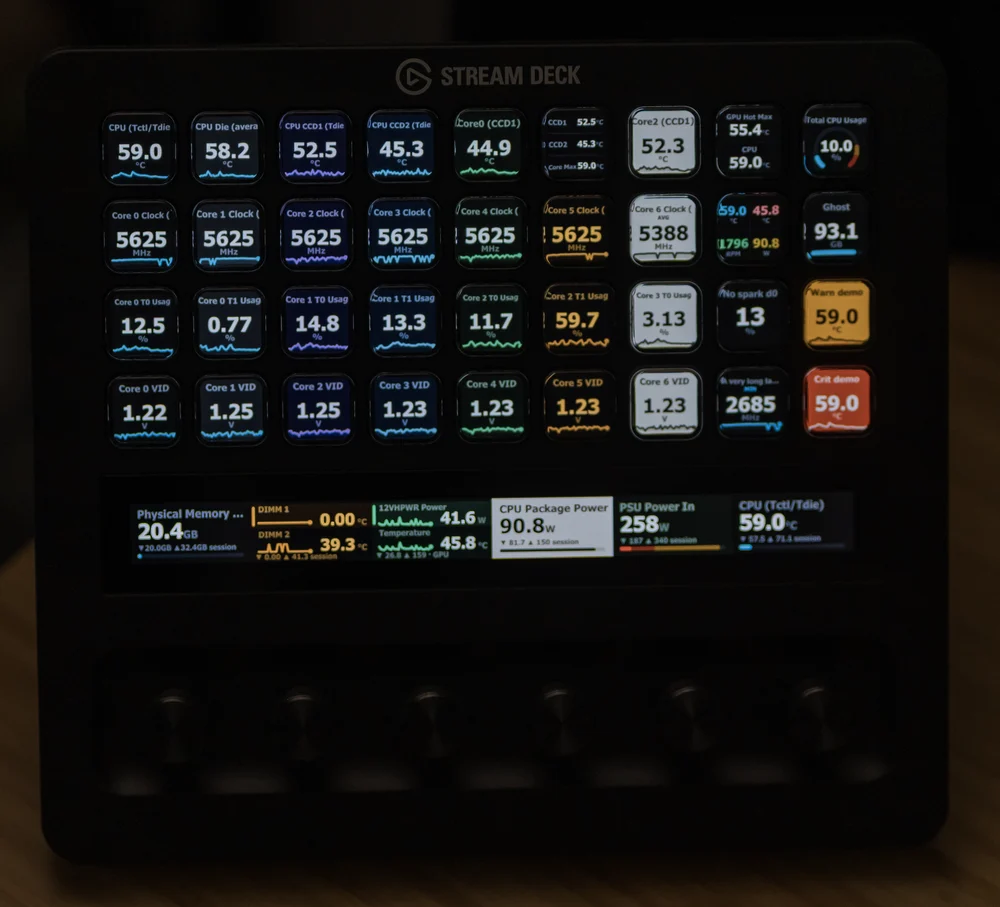
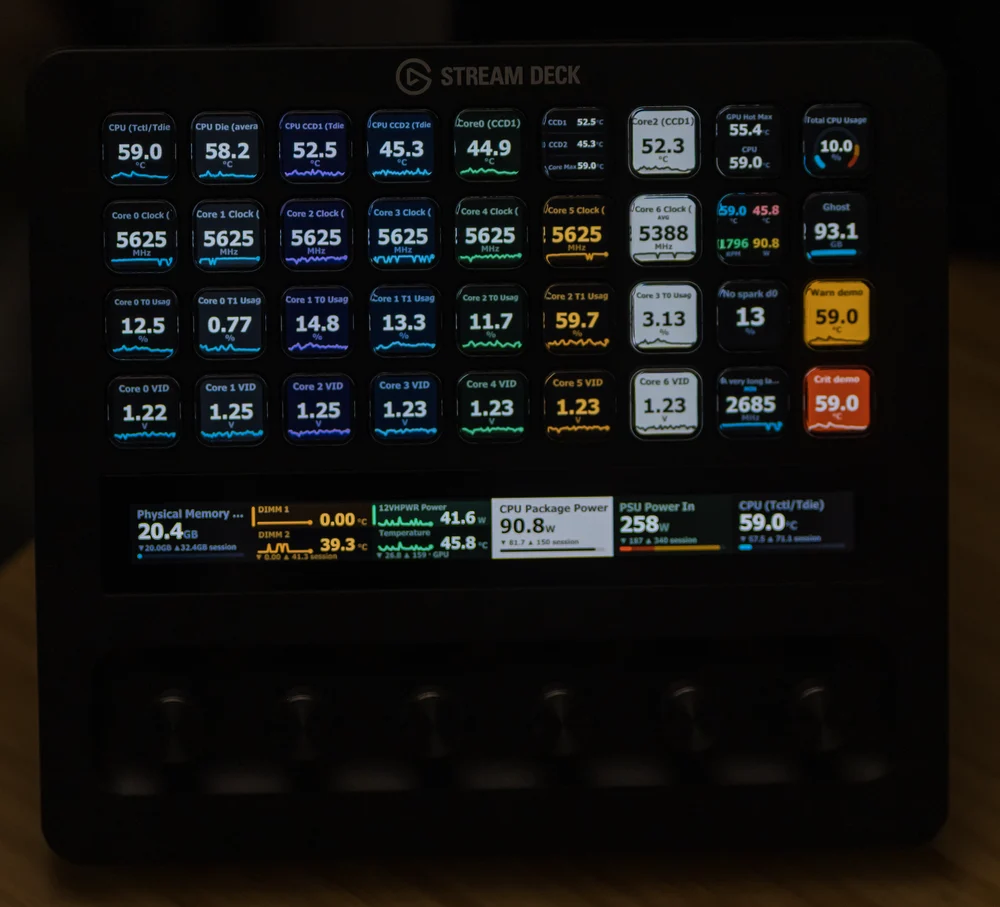
Drop every em dash, and the regraded hardware photo
The footer credit line, the privacy row, the setup step and the 404 copy all
carried em dashes, plus the page titles and the CSS and header comments: 21
across the served files. Replaced by meaning rather than a blind swap, so
prose takes a colon and the titles take a middle dot.

Photo rebuilt from the regraded master. The camera had recorded about 80% of
the saturation the plugin's renderer actually draws, measured against the
warn and crit key colours, which are fixed values in themes.json. It now
matches within a percent.

diff --git a/public/index.html b/public/index.html
@@ -3,13 +3,13 @@
 <head>
 <meta charset="utf-8">
 <meta name="viewport" content="width=device-width, initial-scale=1">
-<title>HWiNFO Sensors for Stream Deck — slawrensen</title>
+<title>HWiNFO Sensors for Stream Deck · slawrensen</title>
 <meta name="description" content="HWiNFO Sensors for Stream Deck: live CPU and GPU temperatures, clocks, fan RPM, usage and power on your Elgato keys and dials. Free, open source, no telemetry.">
 <meta name="theme-color" content="#08090b">
 <meta name="color-scheme" content="dark">
 <link rel="icon" href="favicon.svg" type="image/svg+xml">
 <link rel="canonical" href="https://slawrensen.com/">
-<meta property="og:title" content="HWiNFO Sensors for Stream Deck — slawrensen">
+<meta property="og:title" content="HWiNFO Sensors for Stream Deck · slawrensen">
 <meta property="og:description" content="HWiNFO Sensors for Stream Deck: live CPU and GPU temperatures, clocks, fan RPM, usage and power on your Elgato keys and dials. Free, open source, no telemetry.">
 <meta property="og:type" content="website">
 <meta property="og:url" content="https://slawrensen.com/">
@@ -60,7 +60,7 @@
     -webkit-mask-image:linear-gradient(#000, #000 38%, transparent 88%);
             mask-image:linear-gradient(#000, #000 38%, transparent 88%);
   }
-  /* content-column rails — an instrument bezel on wide screens */
+  /* content-column rails: an instrument bezel on wide screens */
   .rails{position:fixed; inset:0; z-index:-1; pointer-events:none; display:none}
   @media(min-width:1240px){
     .rails{display:block}
@@ -163,7 +163,7 @@
     animation:drift 20s ease-in-out infinite;
   }
   @keyframes drift{0%,100%{transform:translate3d(0,0,0)} 50%{transform:translate3d(2.2%,-1.6%,0)}}
-  /* hero trace field — decorative oscilloscope behind the headline */
+  /* hero trace field: decorative oscilloscope behind the headline */
   .trace{
     position:absolute; inset:0; z-index:-1; width:100%; height:100%; pointer-events:none;
     -webkit-mask-image:linear-gradient(180deg, transparent, #000 24%, #000 78%, transparent);
@@ -171,7 +171,7 @@
     opacity:.75;
   }
   .hero .wrap{position:relative}
-  /* decorative sensor keys in the hero corner — wide screens only */
+  /* decorative sensor keys in the hero corner: wide screens only */
   .hud{position:absolute; top:2px; right:var(--gutter); width:158px; display:none; flex-direction:column; gap:10px; pointer-events:none}
   @media(min-width:820px){ .hud{display:flex} }
   .skey{
@@ -235,7 +235,7 @@
   .phead{max-width:66ch}
   .phead h3{font-size:var(--fs-h3); letter-spacing:-.015em; font-weight:600; margin-top:.5em}
   .phead p{color:var(--muted); font-size:1rem; margin-top:.7em}
-  /* spec readout rows — the feature set as instrument labels, not a paragraph */
+  /* spec readout rows: the feature set as instrument labels, not a paragraph */
   .pspec{list-style:none; padding:0; margin-top:clamp(20px,2.6vw,28px)}
   .pspec li{
     display:grid; grid-template-columns:92px 1fr; gap:14px; align-items:baseline;
@@ -270,7 +270,7 @@
   .pphoto{margin-top:clamp(26px,3.5vw,36px)}
   .pphoto img{width:100%; border:1px solid var(--line-2); border-radius:var(--radius-sm); box-shadow:0 24px 60px -34px rgba(0,0,0,.95)}
 
-  /* setup — the three steps that actually get it running */
+  /* setup: the three steps that actually get it running */
   .psetup{
     list-style:none; padding:0; margin-top:clamp(24px,3vw,32px);
     counter-reset:s; border-top:1px solid var(--line);
@@ -311,7 +311,7 @@
   .pcard .ic{width:30px; height:30px; color:var(--accent); margin-bottom:16px}
   .pcard h3{font-size:1rem; font-weight:600; letter-spacing:-.01em}
   .pcard p{margin-top:9px; color:var(--muted); font-size:.9rem}
-  /* micro-stat readout — each principle reads like a sensor key */
+  /* micro-stat readout: each principle reads like a sensor key */
   .pstat{display:flex; align-items:center; gap:10px; margin-top:auto; padding-top:18px}
   .pstat .l{font-family:var(--mono); font-size:.62rem; letter-spacing:.14em; color:var(--faint); white-space:nowrap}
   .pstat .ln{flex:1; border-bottom:1px dotted #262e3b; margin-top:1px}
@@ -337,7 +337,7 @@
   .foot-links{display:flex; flex-wrap:wrap; gap:clamp(18px,2vw,26px); font-size:.9rem; margin-left:auto}
   .foot-links a{display:inline-flex; align-items:center; min-height:32px}
   .foot-links a:hover{color:var(--text)}
-  /* footer status lamp — decorative, calm */
+  /* footer status lamp: decorative, calm */
   .sig{display:inline-flex; align-items:center; gap:9px; font-family:var(--mono); font-size:.64rem; letter-spacing:.18em; color:var(--faint); pointer-events:none; white-space:nowrap}
   .sig-dot{position:relative; width:7px; height:7px; flex:none; border-radius:50%; background:var(--ok); box-shadow:0 0 8px rgba(73,211,164,.5)}
   .sig-dot::after{content:""; position:absolute; inset:-4px; border-radius:50%; border:1px solid var(--ok); opacity:0; animation:sigping 4.4s var(--ease) infinite}
@@ -455,12 +455,12 @@
           <li><span class="l">Dials</span><span>Stream Deck + and Stream Deck + XL: rotate, push and touch, rotation sets with named groups, and a Control key that drives dials from anywhere. <a href="https://docs.slawrensen.com/hwinfo-streamdeck/hardware.html" target="_blank" rel="noopener">Hardware compatibility</a></span></li>
           <li><span class="l">Display</span><span>Seven themes, including a high-contrast light theme for bright rooms and low vision. Amber warn and red critical alerts keep the same palette on every theme, so an alert stays unmistakable with any colour vision.</span></li>
           <li><span class="l">Status</span><span>When HWiNFO stops publishing, keys say so: every failure state renders a screen that names the problem and its fix, instead of a stale number pretending to be live.</span></li>
-          <li><span class="l">Privacy</span><span>No ads, no telemetry, and no network requests at all — this plugin's only connection is the local one to the Stream Deck app.</span></li>
+          <li><span class="l">Privacy</span><span>No ads, no telemetry, and no network requests at all: this plugin's only connection is the local one to the Stream Deck app.</span></li>
         </ul>
 
         <figure class="pshot pshot-scan">
           <div class="shot-frame">
-            <div class="shot-scroll" tabindex="0" role="group" aria-label="Product screenshot — scroll horizontally to pan">
+            <div class="shot-scroll" tabindex="0" role="group" aria-label="Product screenshot, scroll horizontally to pan">
               <img src="assets/hwinfo-sensors.webp" width="1072" height="770" decoding="async"
                    alt="HWiNFO Sensors key faces: seven display themes across the top row, amber warn and red critical alert states below, each key with a live value, unit and sparkline, then a row showing what one key can hold (two, three and four readings, and the Bar and Ring gauges), plus two Stream Deck + dials">
             </div>
@@ -488,7 +488,7 @@
 
         <ol class="psetup">
           <li><span><b>Install the plugin</b> from the Elgato Marketplace, or double-click the .streamDeckPlugin from GitHub Releases.</span></li>
-          <li><span><b>Run HWiNFO</b> (free or Pro) and tick <b>Shared Memory Support</b> in its Settings. HWiNFO and the Stream Deck app must run at the same privilege level — both elevated or both normal.</span></li>
+          <li><span><b>Run HWiNFO</b> (free or Pro) and tick <b>Shared Memory Support</b> in its Settings. HWiNFO and the Stream Deck app must run at the same privilege level: both elevated or both normal.</span></li>
           <li><span><b>Drag Sensor Reading onto a key</b> and pick a sensor from the searchable list. The key goes live immediately.</span></li>
         </ol>
         <p class="psetup-note">Free HWiNFO switches Shared Memory off after 12 hours. If you have Gadget reporting enabled, the plugin falls back to it automatically and upgrades itself back the moment Shared Memory returns. HWiNFO is a separate free program by REALiX; this plugin does not bundle it.</p>
@@ -563,7 +563,7 @@
         </div>
         <div data-reveal>
           <p>The work is open source, so you never have to take my word for any of it. The code is the documentation of intent.</p>
-          <p>HWiNFO Sensors is a ground-up TypeScript rewrite on Elgato's official SDK, inspired by the archived Go-based plugin by @shayne — no code shared, credits in <a href="https://github.com/slawrensen/hwinfo-streamdeck/blob/main/NOTICE.md" target="_blank" rel="noopener">NOTICE.md</a>.</p>
+          <p>HWiNFO Sensors is a ground-up TypeScript rewrite on Elgato's official SDK, inspired by the archived Go-based plugin by @shayne: no code shared, credits in <a href="https://github.com/slawrensen/hwinfo-streamdeck/blob/main/NOTICE.md" target="_blank" rel="noopener">NOTICE.md</a>.</p>
           <p>Questions, bugs, or ideas go through <a href="https://github.com/slawrensen/hwinfo-streamdeck/issues" target="_blank" rel="noopener">GitHub Issues</a>, where they are answered in the open.</p>
         </div>
       </div>
@@ -608,7 +608,7 @@ try{
       var h=root.scrollHeight-root.clientHeight;
       bar.style.transform='scaleX('+(h>0?Math.min(1,Math.max(0,root.scrollTop/h)):0)+')';
     }
-    /* back at the top there is no current section — clear the stale underline */
+    /* back at the top there is no current section: clear the stale underline */
     if(root.scrollTop<120){ for(var k in links) links[k].removeAttribute('aria-current'); }
   }
   addEventListener('scroll',onScroll,{passive:true}); addEventListener('resize',onScroll,{passive:true}); onScroll();
@@ -638,7 +638,7 @@ try{
     root.classList.remove('js-reveal');
   }
 
-  /* sensor trace field + hero readouts — the page's single rAF loop.
+  /* sensor trace field + hero readouts: the page's single rAF loop.
      Pauses when the tab is hidden or the hero is offscreen; delta-timed; draws at 30 Hz. */
   var cv=document.querySelector('canvas.trace');
   if(cv&&cv.getContext){

diff --git a/public/404.html b/public/404.html
@@ -3,7 +3,7 @@
 <head>
 <meta charset="utf-8">
 <meta name="viewport" content="width=device-width, initial-scale=1">
-<title>No signal — slawrensen</title>
+<title>No signal · slawrensen</title>
 <meta name="robots" content="noindex">
 <meta name="theme-color" content="#08090b">
 <meta name="color-scheme" content="dark">
@@ -58,7 +58,7 @@
   <a class="brand" href="/"><span class="mark" aria-hidden="true">SL</span><span>slawrensen</span></a>
   <p class="eyebrow">404 · No signal</p>
   <h1>That page is not on this instrument.</h1>
-  <p>The address does not match anything here. The sensor wall is one page — everything lives on the front.</p>
+  <p>The address does not match anything here. The sensor wall is one page: everything lives on the front.</p>
   <a class="home" href="/">Back to slawrensen.com</a>
 </main>
 </body>
